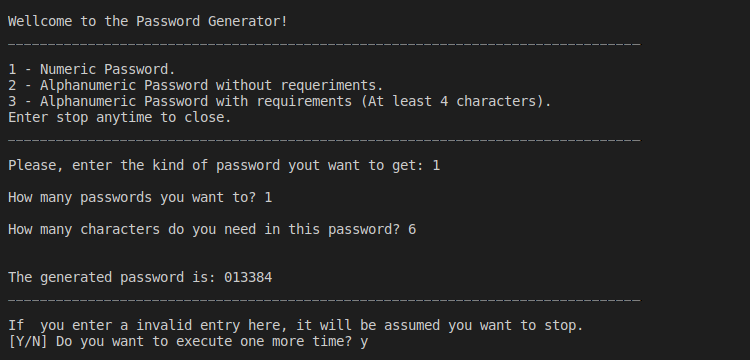
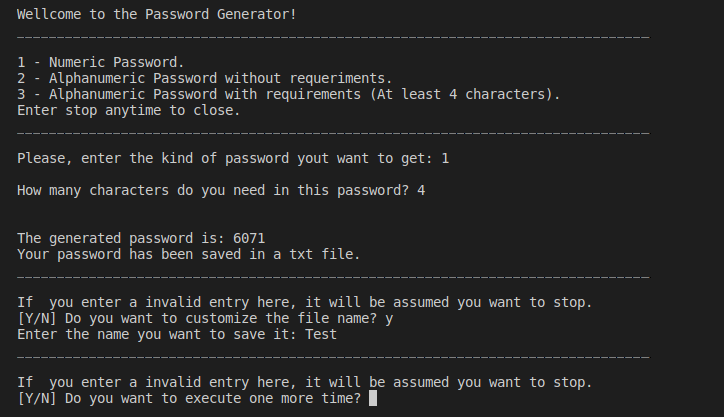
updating the documentaion

diff --git a/Password-Generator/README.md b/Password-Generator/README.md
@@ -1,22 +1,26 @@
-<h1>Oops! I need to update the documentation... Sorry!</h1>
+<h1>UPDATED</h1>
 
 <h2>This app generates random passwords on demand for the user.</h2>
 
 <h3>You, as an user, can select 3 types of passwords: Numeric, Alphanumeric without requirements and Alphanumeric with requirements. See the example below:
-Imagine that you only want to create a numeric password with 6 characters...</h3>
+Imagine that you only want to create a numeric password with 4 characters...</h3>
 
 <img src="https://github.com/jgmarquesm/Python/blob/main/Password-Generator/img/example1.png" alt="Show 3 options of passwords to the user. 1 - Numeric, 2 - Alphanumeric, 3 - Alphanumeric with requirements. We select 1 with 6 characters.">
 
-<h3>As you see, you can excute again or close it. Now, imagine you want to create 2 alphanumeric passwords without requirement, one with 8 characters and the other with 10 character... You do not need to execute the application twice, but just once, look how:</h3>
+<h3>Note above, that you can choose the a personalized name to the output file, if you do not want to a customized name, it will be saved with a standart name that depends the date and time. Here I use the name "Test" to examplify. As you see, you can excute again or close it. Now, imagine you want to create 1 alphanumeric password without requirement, one with 8 characters:</h3>
 
 <img src="https://github.com/jgmarquesm/Python/blob/main/Password-Generator/img/example2.png" alt="Executing the app again, but now we want 2 Alphanumeric passwords, one with 8 characters and other with 10.">
 
-<h3>Now imagine that you want to create an alphanumeric password with requirement (at least 4 characters: 1 uppercase letter, 1 lowercase letter, 1 number and 1 special character). So if you enter 3 as the character number, a warning will appear and you will have to enter another length for the password.</h3>
+<h3>This time we do not wanto change te output file. Now imagine that you want to create 1 alphanumeric password with requirement (at least 4 characters: 1 uppercase letter, 1 lowercase letter, 1 number and 1 special character). So if you enter 3 or less as the character number, a warning will appear and you will have to enter another length for the password.</h3>
 
 <img src="https://github.com/jgmarquesm/Python/blob/main/Password-Generator/img/example3.png" alt="Selecting Alphanumeric password with requirements with lenght 3 and after the warning with length 4.">
 
 <h3>If you enter a invalid data, it will appear a warning.</h3>
 
 <img src="https://github.com/jgmarquesm/Python/blob/main/Password-Generator/img/example4.png" alt="Invalid data warning.">
+
+<h3>Below we see how the files were save. Note that one is named Test.txt, as i want to, and the others 2 have the standart name. You can verify this files <a src="https://github.com/jgmarquesm/Python/blob/main/Password-Generator/output">here</a>.</h3>
+
+<img src="https://github.com/jgmarquesm/Python/blob/main/Password-Generator/img/example5.png" alt="Showing the output files' folder.">
 
 <h4>To close, just enter stop anytime or type y when app asking to continue.</h4>
